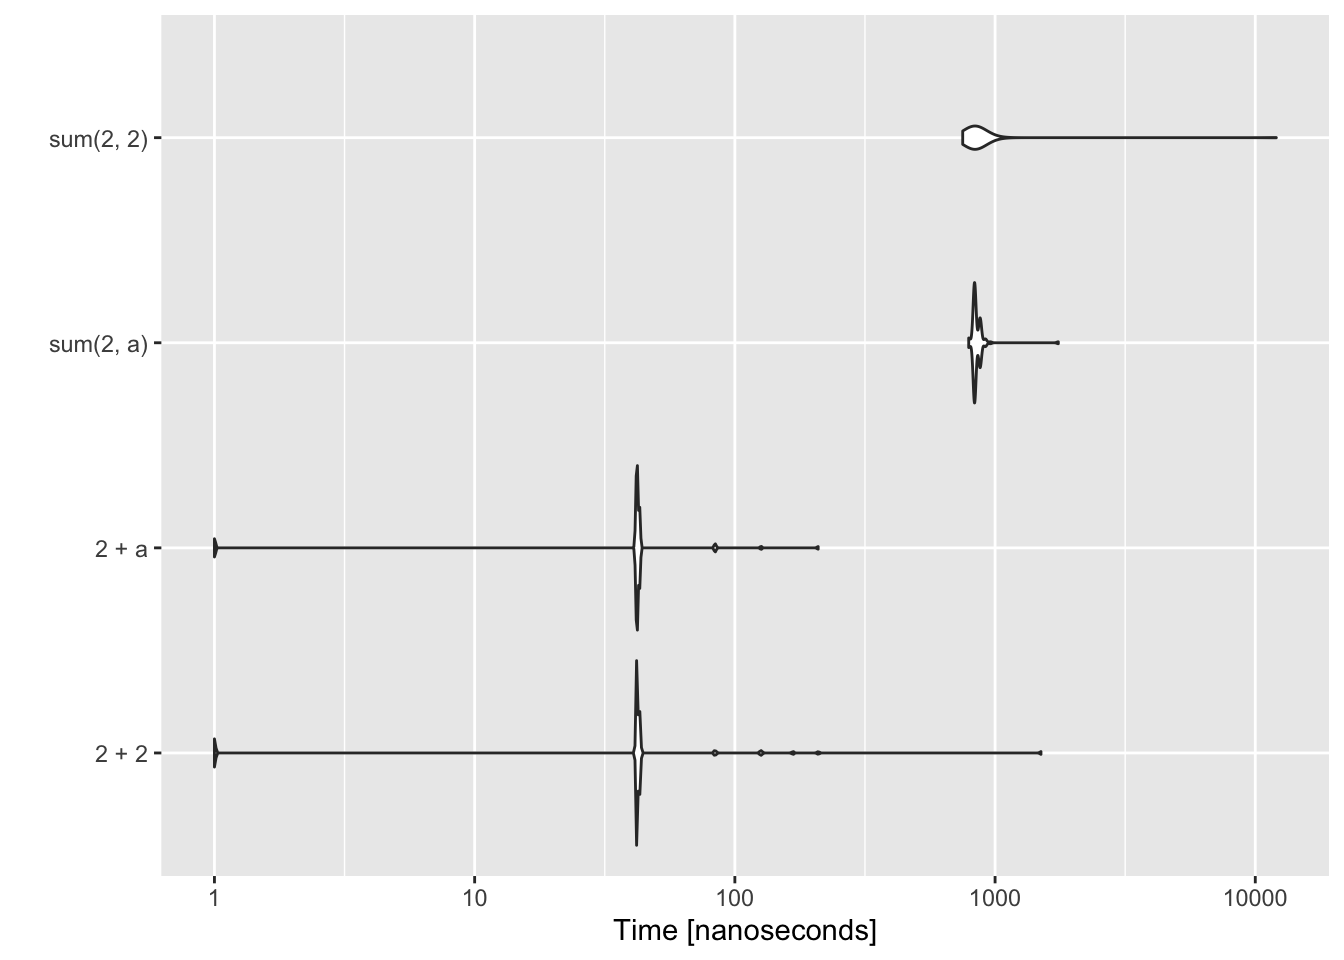
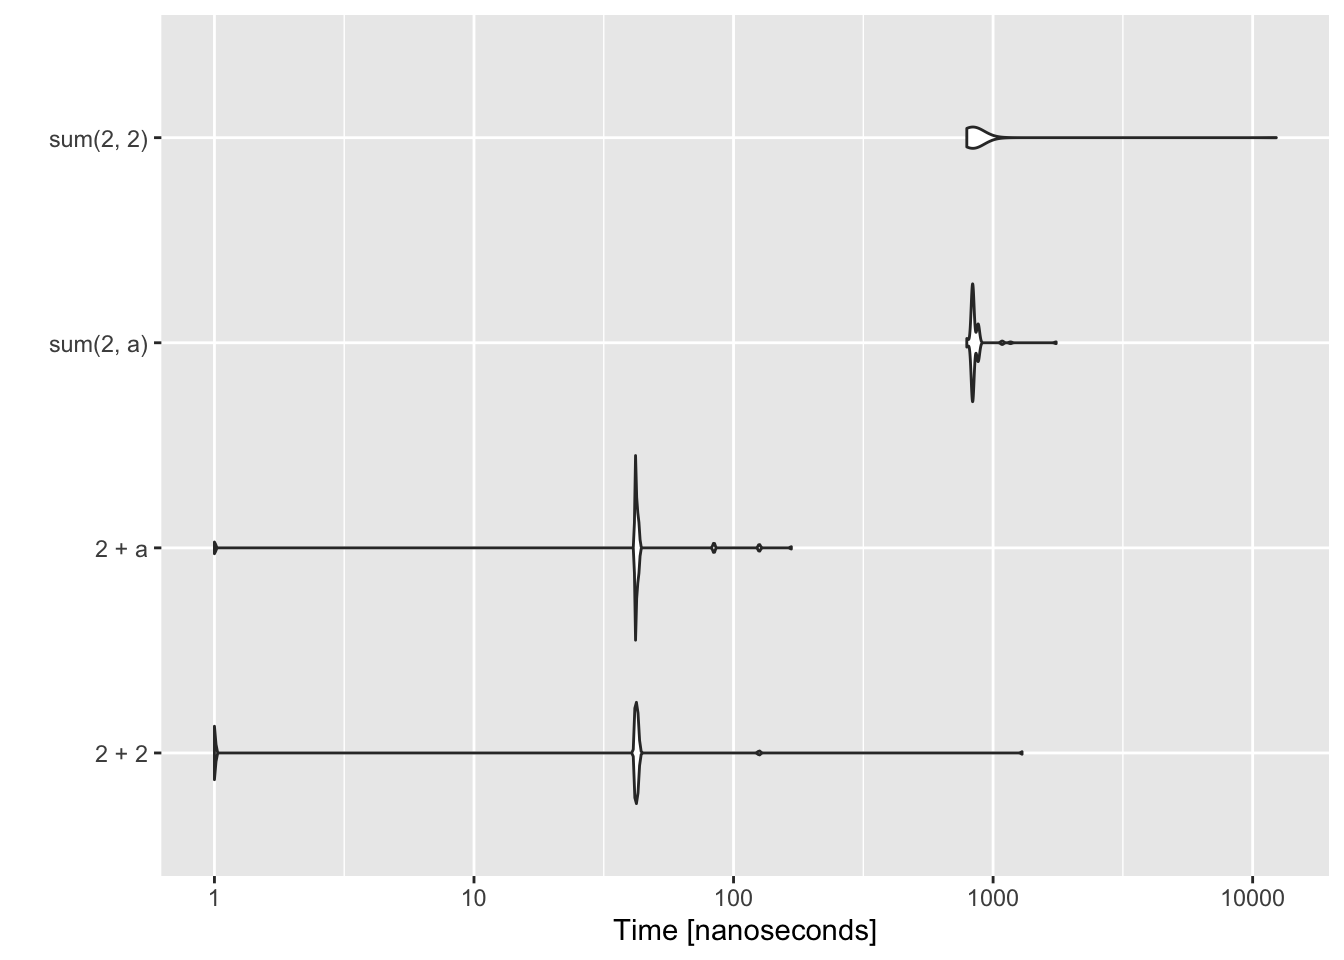
remove 3 skills to be more vague

diff --git a/week8-adv-packages.html b/week8-adv-packages.html
@@ -639,9 +639,10 @@ for(i in 1:10000){ b &lt;- t(a)%*%a }
 Rprof()
 summaryRprof(tmp)$by.self</code></pre>
 <pre><code>##                   self.time self.pct total.time total.pct
-## &quot;%*%&quot;                  0.54    93.10       0.54     93.10
-## &quot;lazyLoadDBfetch&quot;      0.02     3.45       0.02      3.45
-## &quot;t.default&quot;            0.02     3.45       0.02      3.45</code></pre>
+## &quot;%*%&quot;                  0.48    82.76       0.48     82.76
+## &quot;t.default&quot;            0.06    10.34       0.06     10.34
+## &quot;t&quot;                    0.02     3.45       0.08     13.79
+## &quot;lazyLoadDBfetch&quot;      0.02     3.45       0.02      3.45</code></pre>
 <pre class="r"><code>Rprof(NULL) #stop profiling</code></pre>
 </div>
 <div id="profvis-package" class="section level3">
@@ -657,7 +658,7 @@ res &lt;- microbenchmark(2 + 2, 2 + a, sum(2, a), sum(2, 2))
 ggplot2::autoplot(res)</code></pre>
 <pre><code>## Coordinate system already present. Adding new coordinate system, which will replace the existing one.</code></pre>
 <pre><code>## Warning: Transformation introduced infinite values in continuous y-axis</code></pre>
-<pre><code>## Warning: Removed 11 rows containing non-finite values (stat_ydensity).</code></pre>
+<pre><code>## Warning: Removed 9 rows containing non-finite values (stat_ydensity).</code></pre>
 <p><img src="week8-adv-packages_files/figure-html/unnamed-chunk-5-1.png" width="672" /></p>
 <p>This shows an example of code using <a href="https://www.datacamp.com/community/tutorials/pipe-r-tutorial">piping</a> (<code>%&gt;%</code>) versus without. This is why I do not use piping in my simulations. It is slow though it has gotten much faster in <strong>magrittr</strong> 2.0.</p>
 <pre class="r"><code>library(magrittr)

diff --git a/index.html b/index.html
@@ -342,7 +342,7 @@ $(document).ready(function () {
 <h2>Introduction to Git/GitHub Jan 12</h2>
 <p>Note this is not specific to R in any way nor to computer coding per se. I will use RStudio to edit my files in the session, but you can use whatever you want to edit files.</p>
 <ul>
-<li><p><a href="git-part1.html">Part 1</a>. The 3 key Git skills. These 3 basic skills are all you need for 95% of your work with Git repositories.</p></li>
+<li><p><a href="git-part1.html">Part 1</a>. The key Git skills. These basic skills are all you need for 95% of your work with Git repositories.</p></li>
 <li><p><a href="git-part2.html">Part 2</a>. GitHub skills. We’ll learn how to use issues and releases on GitHub to be more efficient either working alone or in a team. I’ll show you how I use organizations to organize my repositories and some of the nice ‘landing page’ features of GitHub.</p></li>
 <li><p><a href="git-part3.html">Part 3</a>. More Git skills. Dealing with merge conflicts.</p></li>
 <li><p><a href="Git-RStudio.html">Using Git from RStudio</a> Introduction to workflow using RStudio and Git/GitHub.</p></li>
